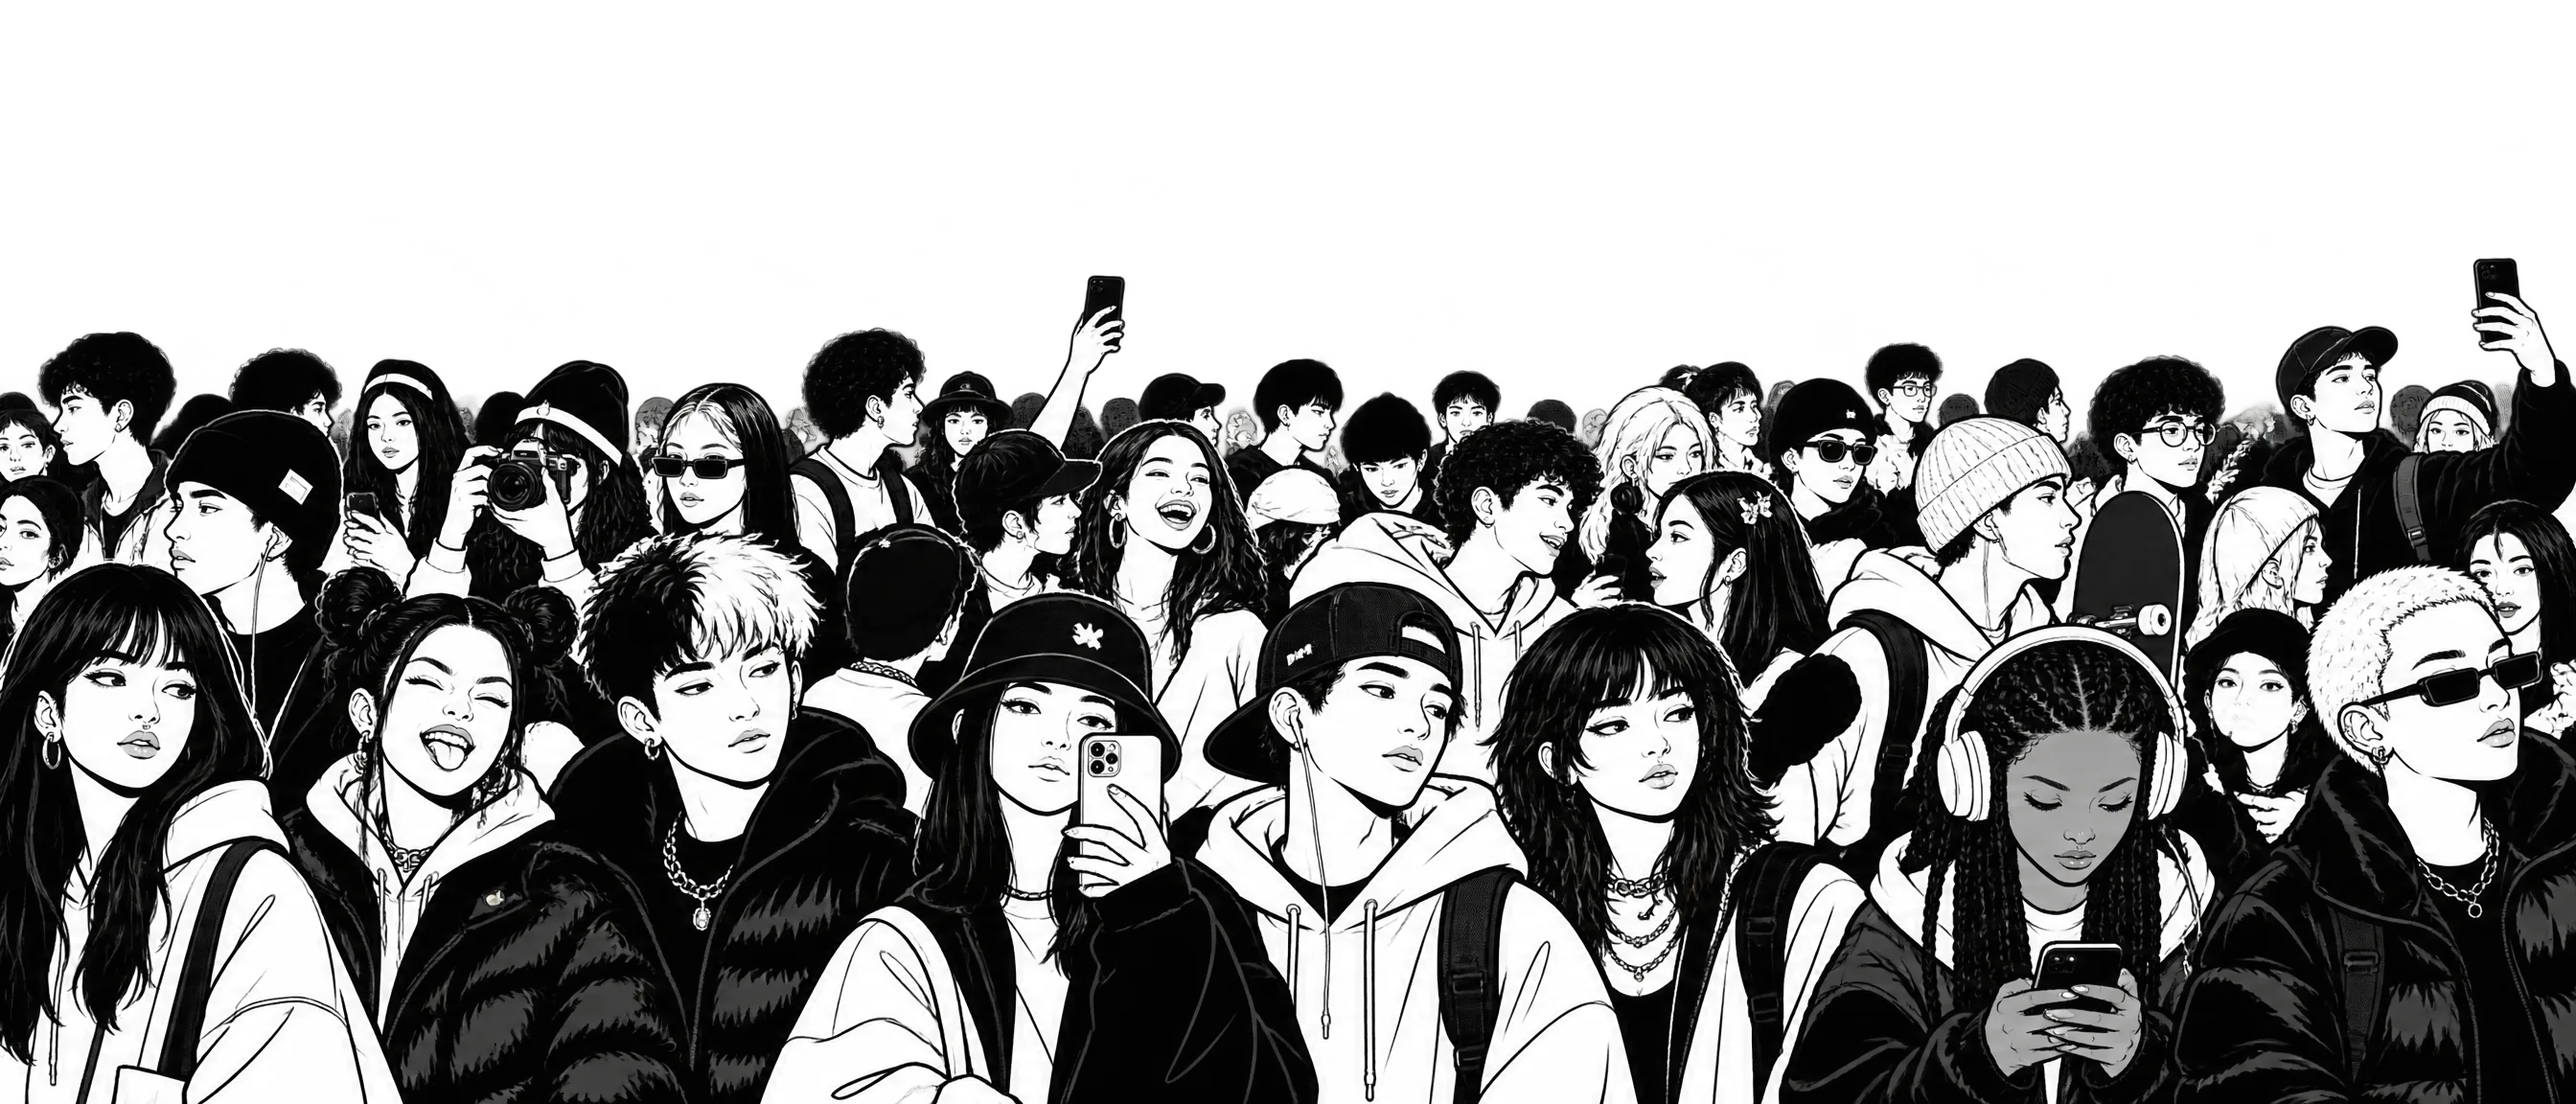
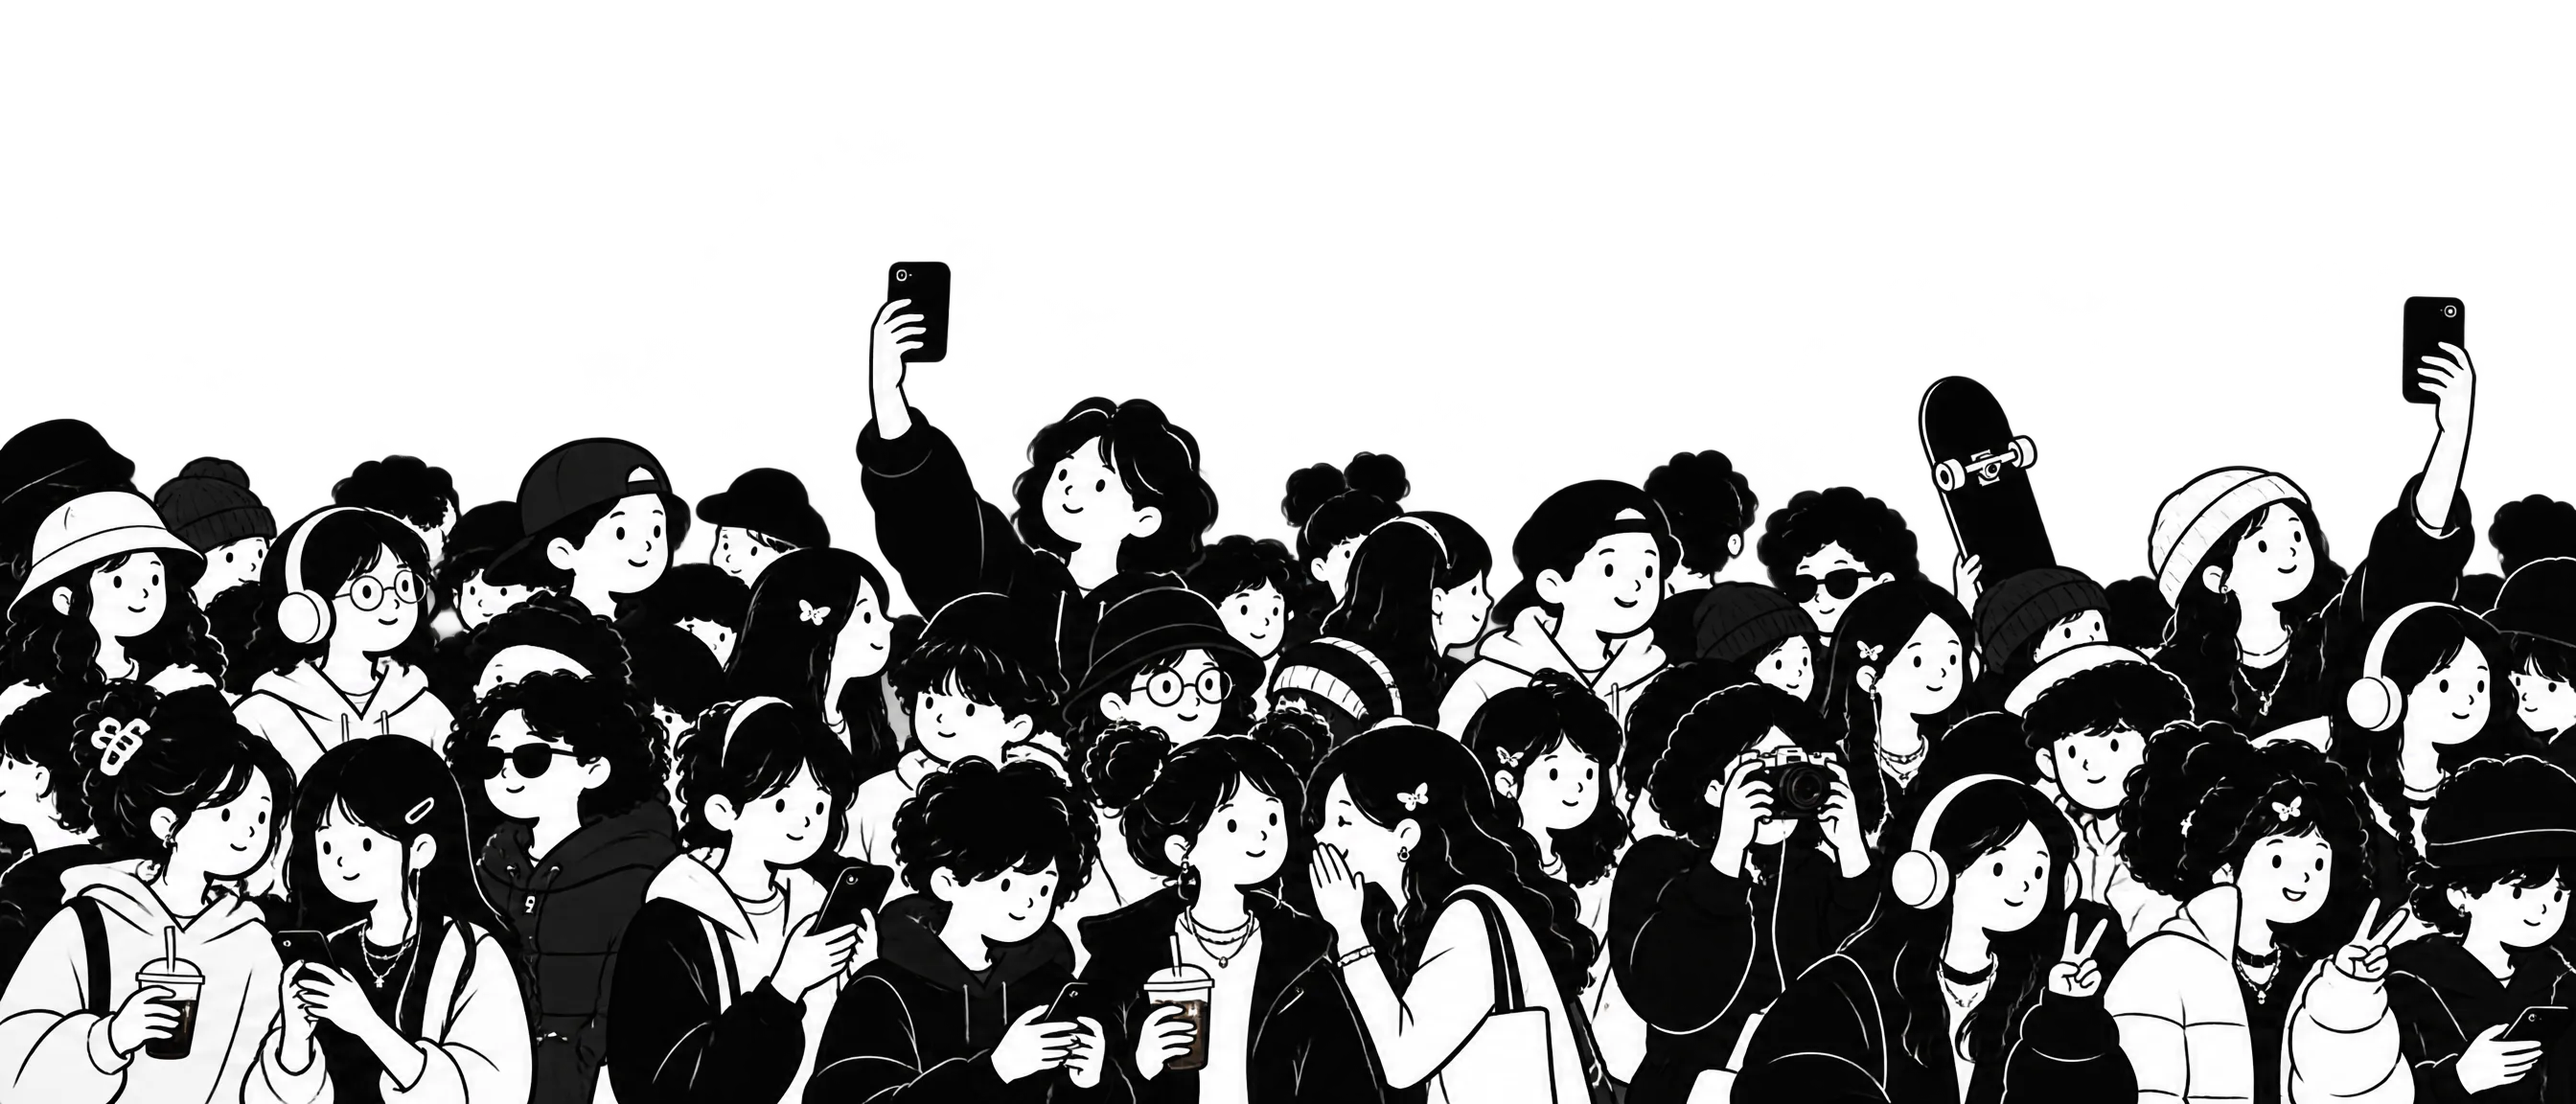
updated footer

diff --git a/web/src/components/stitch/cherryBlossom.ts b/web/src/components/stitch/cherryBlossom.ts
@@ -37,14 +37,25 @@ const ROWS: Record<number, string> = {
   36: '14se7d2c1 15sc18860 16xaa714d 17t8a3b08 18t702d01 19t4e290e 20sb9aea2',
   37: '14xae6736 15t893705 16t702c00 17t672900 18t4f2000 19t502e14',
   38: '12se7d2bf 13xbd7e51 14t883906 15t722f05 16t672c04 17t502304 18t452005 19t4a250b 20x8c7564',
-  39: '13sd0a485 14sbc9882 15sb39581 16sb09582 17sa18f82 18sa08f83 19sa18f83 20sa9998e',
+  // Earth around the trunk, where it meets the ground below.
+  39: '13t5e4229 14t7a5b3d 15t5e4229 16t7a5b3d 17t5e4229 18t6b4c30 19t6b4c30 20t7a5b3d',
+};
+
+// The ground the tree stands on: a grass edge with a few tufts and two fallen
+// petals, over a low mound of soil. Same format as ROWS; cells never overlap the roots.
+const GROUND: Record<number, string> = {
+  38: '9sa3b87f 25sa3b87f 28sa3b87f 31s8fa86a',
+  39: '7x6d8a4e 8s9bb176 9x9bb176 10x9bb176 11x8fa86a 12s9bb176 21x7f9a5c 22x8fa86a 23x748f53 24x9bb176 25s7f9a5c 26x5f7a45 27x8fa86a 28x748f53 29x8fa86a 30x5f7a45 31s5f7a45 32x8fa86a 33x8fa86a',
+  40: '5x8fa86a 6x6d8a4e 7x5f7a45 8t7a5b3d 9t6b4c30 10t5e4229 11seec1d2 12t6b4c30 13t806043 14t5e4229 15x5f7a45 16t7a5b3d 17t5e4229 18t8a6a4a 19t8a6a4a 20t8a6a4a 21x748f53 22x5f7a45 23x8fa86a 24t8a6a4a 25t806043 26sd7658e 27t806043 28t7a5b3d 29x6d8a4e 30x7f9a5c 31t7a5b3d 32t6b4c30 33x9bb176 34x6d8a4e 35x748f53',
+  41: '7t7a5b3d 8t7a5b3d 9t806043 10t8a6a4a 11t6b4c30 12t8a6a4a 13t806043 14t5e4229 15t806043 16t8a6a4a 17t806043 18t8a6a4a 19t806043 20t6b4c30 21t5e4229 22t7a5b3d 23t7a5b3d 24t7a5b3d 25t6b4c30 26t8a6a4a 27t5e4229 28t5e4229 29t5e4229 30t6b4c30 31t8a6a4a 32t8a6a4a 33t806043',
+  42: '11t5a3e27 12t533823 13t4e3522 14t5a3e27 15t4e3522 16t4e3522 17t4e3522 18t4e3522 19t4e3522 20t4a3220 21t5a3e27 22t533823 23t4e3522 24t4a3220 25t5a3e27 26t4a3220 27t4e3522 28t533823 29t4a3220',
 };
 
 export const CHERRY_BLOSSOM = {
   cols: 44,
   rows: 44,
   cell: 16,
-  units: Object.entries(ROWS).flatMap(([r, row]) =>
+  units: [...Object.entries(ROWS), ...Object.entries(GROUND)].flatMap(([r, row]) =>
     row.split(' ').map((entry): PlacedUnit => {
       const [, c, kind, hex] = entry.match(/^(\d+)([sxt])([0-9a-f]{6})$/)!;
       return { r: Number(r), c: Number(c), unit: KINDS[kind], color: `#${hex}` };

diff --git a/web/src/components/home/Statement.tsx b/web/src/components/home/Statement.tsx
@@ -10,13 +10,15 @@ const STEPS = [
 export function Statement() {
   return (
     <section aria-labelledby="statement-title" className="gutter py-[clamp(6rem,16vw,14rem)]">
-      <div className="grid gap-y-10 md:grid-cols-12 md:gap-x-6">
-        <Reveal className="md:col-span-3">
-          <p className="t-meta text-stone">(Why we exist)</p>
-        </Reveal>
-        {/* Sewn in beside the copy on desktop; after it, to the right, on mobile. */}
-        <StitchedBlossomTree className="order-last justify-self-end md:order-none md:col-span-3 md:row-start-2 md:self-end md:justify-self-start" />
-        <div className="md:col-span-9 md:row-span-2">
+      {/* Half and half: the tree on the left, the copy on the right. */}
+      <div className="grid items-center gap-y-14 md:grid-cols-12 md:gap-x-6">
+        <div className="flex justify-center md:col-span-6">
+          <StitchedBlossomTree />
+        </div>
+        <div className="md:col-span-6">
+          <Reveal>
+            <p className="t-meta mb-8 text-stone md:mb-10">(Why we exist)</p>
+          </Reveal>
           <Lines
             as="h2"
             lines={[
@@ -28,13 +30,13 @@ export function Statement() {
             className="t-display"
             id="statement-title"
           />
-          <Reveal delay={200} className="mt-10 grid gap-6 md:mt-14 md:grid-cols-9 md:gap-6">
-            <p className="t-lede md:col-span-5">
+          <Reveal delay={200} className="mt-10 flex max-w-[38rem] flex-col gap-6 md:mt-14">
+            <p className="t-lede">
               Nobody needs another hoodie. We make the other thing — the piece someone notices from across the room, then
               can&rsquo;t stop thinking about. Strange details. Small runs. Clothes first, then objects for your room, your
               desk, your hands.
             </p>
-            <p className="t-body text-stone md:col-span-3 md:col-start-7">
+            <p className="t-body max-w-[34ch] text-stone">
               And we don&rsquo;t guess. Nothing gets made until enough people say they want it.
             </p>
           </Reveal>

diff --git a/web/src/components/layout/SiteFooter.tsx b/web/src/components/layout/SiteFooter.tsx
@@ -56,18 +56,16 @@ export function SiteFooter() {
       <div className="gutter relative z-[2]" aria-hidden>
         <Wordmark fit className="block w-full text-char-2" />
       </div>
-      {/* The crowd: the people this is for, standing under the wordmark.
-          `lighten` drops the art's pure black into the ink so it has no edge. */}
-      <div className="relative -mt-[8vw] aspect-[4/3] w-full sm:aspect-[16/9] lg:aspect-[21/9]" aria-hidden>
-        <Image
-          src={crowd}
-          alt=""
-          fill
-          sizes="100vw"
-          quality={80}
-          className="object-cover object-bottom opacity-90 mix-blend-lighten"
-        />
-        <div className="absolute inset-x-0 top-0 h-1/3 bg-gradient-to-b from-ink to-transparent" />
+      {/* The crowd: the people this is for, pressed up against the wordmark.
+          The art has a transparent sky, so raised hands and phones reach over
+          the letters and the front row's heads meet their base. Each
+          overlap lands the hands (24% down the art) on the wordmark's upper
+          half; it changes per breakpoint because the crop's height does. */}
+      <div
+        className="relative z-[3] -mt-[27vw] aspect-[4/3] w-full sm:-mt-[21vw] sm:aspect-[16/9] lg:-mt-[17.5vw] lg:aspect-[21/9]"
+        aria-hidden
+      >
+        <Image src={crowd} alt="" fill sizes="100vw" quality={80} className="object-cover object-bottom" />
       </div>
     </footer>
   );

diff --git a/web/src/components/stitch/StitchedBlossomTree.tsx b/web/src/components/stitch/StitchedBlossomTree.tsx
@@ -33,9 +33,10 @@ const BACKING_LIGHTEN = 0.45;
 
 // Petals drifting down from the canopy once the tree is sewn. Positions are
 // fractions of the tree box (canopy spans ~0.2–0.6 down); they fade out at
-// the roots (GROUND). Durations are long on purpose: a slow, calm fall.
+// the grass line of the stitched ground (GROUND). Durations are long on
+// purpose: a slow, calm fall.
 const PETAL_START_MS = 700;
-const GROUND = 0.93;
+const GROUND = 0.91;
 const PETALS = [
   { x: 0.24, y: 0.5, size: 1.0, dur: 11, delay: 0.2, drift: 0.05, wind: 0.07, color: '#e0729c' },
   { x: 0.62, y: 0.46, size: 0.8, dur: 13, delay: 2.4, drift: 0.04, wind: 0.1, color: '#eec1d2' },
@@ -304,7 +305,7 @@ export function StitchedBlossomTree({ className = "" }: { className?: string }) 
   const trim = (cells: number) => `calc(var(--tree) * ${-cells / CHERRY_BLOSSOM.cols})`;
   return (
     <div
-      className={`[--tree:200px] md:[--tree:260px] lg:[--tree:300px] ${className}`}
+      className={`[--tree:min(88vw,340px)] md:[--tree:min(52vw,480px)] xl:[--tree:600px] ${className}`}
       role="presentation"
       aria-hidden="true"
     >
